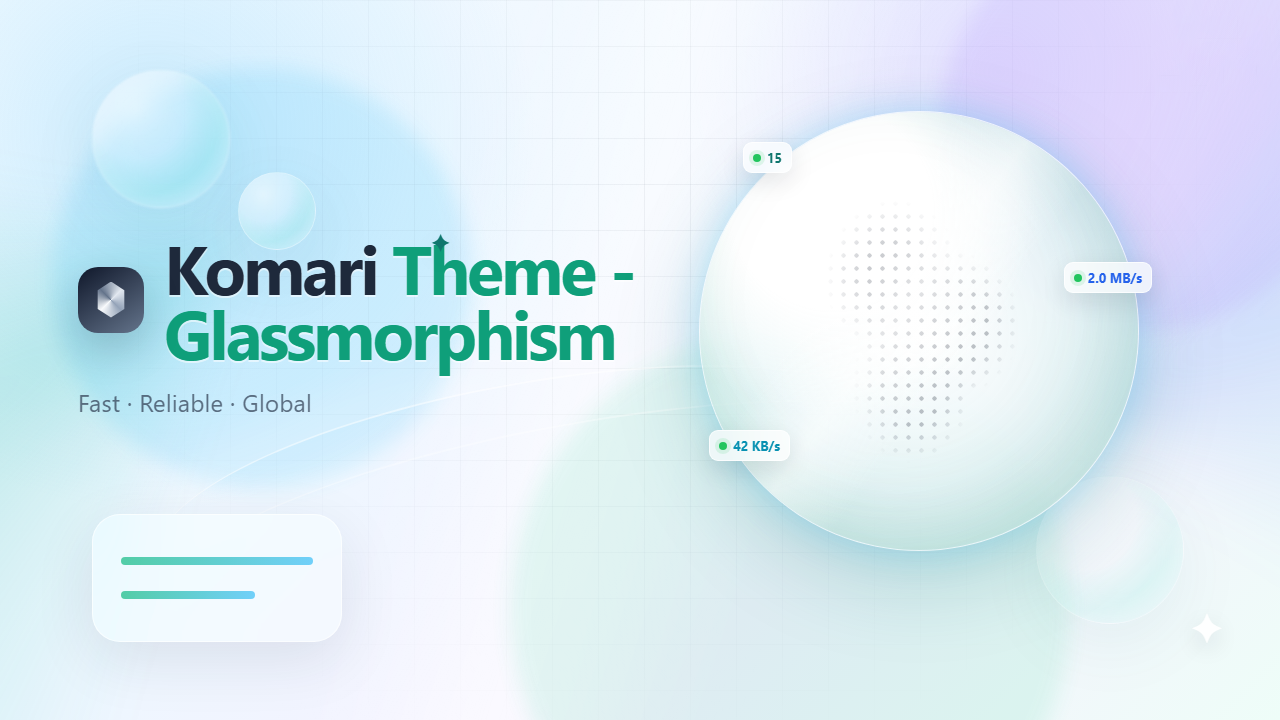
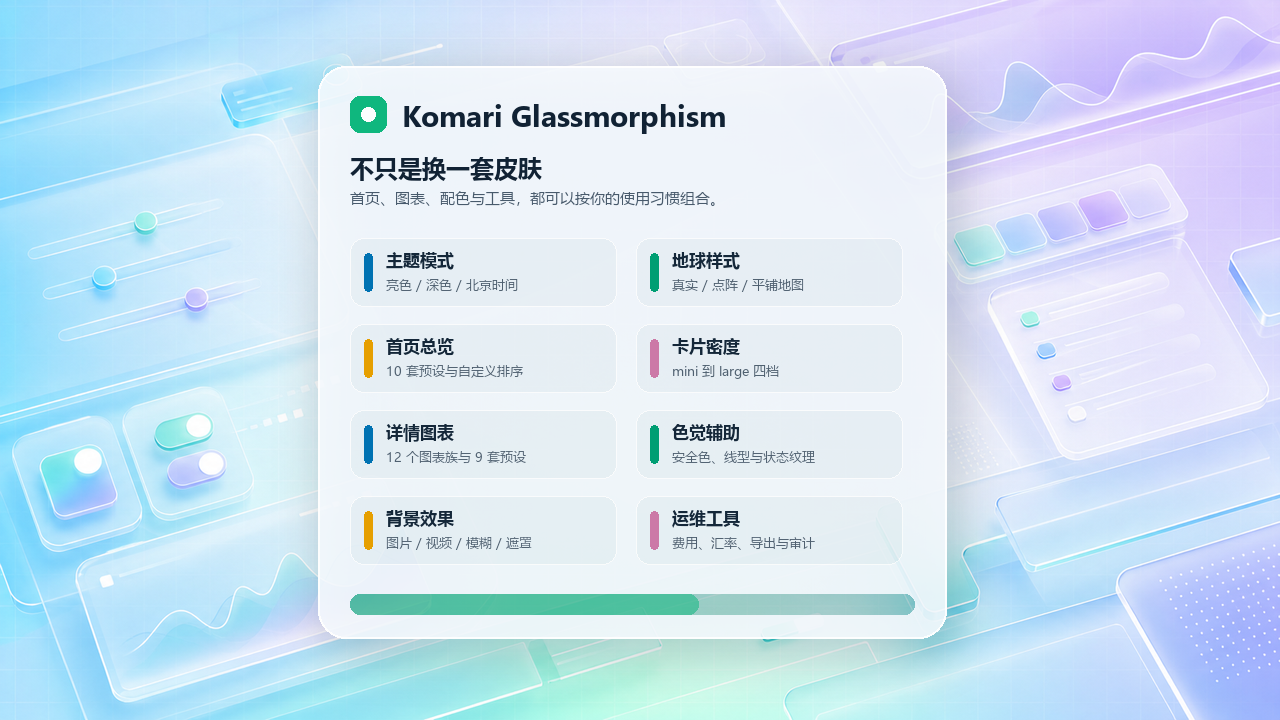
fix: release v3.1.7 stability and billing updates

diff --git a/src/components/NodeList.vue b/src/components/NodeList.vue
@@ -542,36 +542,28 @@ function buildNodeMetadataItems(node: NodeData): NodeMetadataItem[] {
                 </div>
 
                 <!-- 流量 -->
-                <div v-else-if="col.key === 'traffic'" class="group min-w-0">
-                  <DataTooltip placement="top" class="flex items-center gap-2" content-class="mb-1.5">
-                    <div class="space-y-1 w-full">
-                      <div class="text-[11px] font-medium text-foreground/75 truncate">
-                        <span class="inline group-hover:hidden">
-                          {{ getTrafficUsedPercentage(node).toFixed(1) }}%
-                        </span>
-                        <span class="hidden group-hover:inline">
-                          {{ formatBytes(getTrafficUsed(node)) }} /
-                          <template v-if="hasTrafficLimit(node)">{{ formatBytes(node.traffic_limit) }}</template>
-                          <template v-else>∞</template>
-                        </span>
-                      </div>
-                      <TrafficProgress
-                        :upload="node.net_total_up ?? 0" :download="node.net_total_down ?? 0"
-                        :traffic-limit="node.traffic_limit" :traffic-limit-type="(node.traffic_limit_type || 'sum')"
-                        height="4px"
-                      />
+                <div
+                  v-else-if="col.key === 'traffic'"
+                  class="group min-w-0"
+                  :title="`↑ ${formatBytes(node.net_total_up ?? 0)}\n↓ ${formatBytes(node.net_total_down ?? 0)}`"
+                >
+                  <div class="space-y-1 w-full">
+                    <div class="text-[11px] font-medium text-foreground/75 truncate">
+                      <span class="inline group-hover:hidden">
+                        {{ getTrafficUsedPercentage(node).toFixed(1) }}%
+                      </span>
+                      <span class="hidden group-hover:inline">
+                        {{ formatBytes(getTrafficUsed(node)) }} /
+                        <template v-if="hasTrafficLimit(node)">{{ formatBytes(node.traffic_limit) }}</template>
+                        <template v-else>∞</template>
+                      </span>
                     </div>
-                    <template #content>
-                      <span class="flex flex-row gap-0.5 items-center whitespace-nowrap">
-                        <Icon icon="tabler:chevron-up" width="12" height="12" />
-                        {{ formatBytes(node.net_total_up ?? 0) }}
-                      </span>
-                      <span class="flex flex-row gap-0.5 items-center whitespace-nowrap">
-                        <Icon icon="tabler:chevron-down" width="12" height="12" />
-                        {{ formatBytes(node.net_total_down ?? 0) }}
-                      </span>
-                    </template>
-                  </DataTooltip>
+                    <TrafficProgress
+                      :upload="node.net_total_up ?? 0" :download="node.net_total_down ?? 0"
+                      :traffic-limit="node.traffic_limit" :traffic-limit-type="(node.traffic_limit_type || 'sum')"
+                      height="4px"
+                    />
+                  </div>
                 </div>
 
                 <!-- 速率 -->

diff --git a/src/components/NodeCard.vue b/src/components/NodeCard.vue
@@ -59,6 +59,14 @@ const offlineTime = computed(() => formatDateTime(props.node.time))
 const cpuStatus = computed(() => getStatus(props.node.cpu ?? 0))
 const memPercentage = computed(() => getMemoryPercentage(props.node))
 const memStatus = computed(() => getStatus(memPercentage.value))
+const swapTooltip = computed(() => {
+  const used = Math.max(0, props.node.swap ?? 0)
+  const total = Math.max(0, props.node.swap_total ?? 0)
+  if (total <= 0)
+    return 'Swap 未配置'
+  const percentage = Math.min(100, used / total * 100)
+  return `Swap ${formatBytes(used)} / ${formatBytes(total)} (${percentage.toFixed(1)}%)`
+})
 const diskPercentage = computed(() => getDiskPercentage(props.node))
 const diskStatus = computed(() => getStatus(diskPercentage.value))
 
@@ -244,13 +252,13 @@ function hasRegion(region: string | null | undefined): boolean {
               <ProgressThin :percentage="props.node.cpu ?? 0" :status="cpuStatus" :height="4" />
             </div>
 
-            <div class="flex flex-col gap-1">
+            <DataTooltip placement="top" :content="swapTooltip" class="flex flex-col gap-1" content-class="whitespace-nowrap">
               <div class="flex justify-between text-xs">
                 <span class="text-muted-foreground">M</span>
                 <span class="tabular-nums font-medium">{{ memPercentage.toFixed(1) }}%</span>
               </div>
               <ProgressThin :percentage="memPercentage" :status="memStatus" :height="4" />
-            </div>
+            </DataTooltip>
 
             <div class="col-span-2 text-[11px] text-muted-foreground truncate">
               {{ formatBytes(props.node.ram ?? 0) }} / {{ formatBytes(props.node.mem_total ?? 0) }}
@@ -291,7 +299,7 @@ function hasRegion(region: string | null | undefined): boolean {
           </div>
 
           <!-- 内存 -->
-          <div class="flex flex-col gap-1">
+          <DataTooltip placement="top" :content="swapTooltip" class="flex flex-col gap-1" content-class="whitespace-nowrap">
             <div class="flex justify-between text-xs">
               <span class="text-muted-foreground">内存</span>
               <span class="tabular-nums font-medium">{{ memPercentage.toFixed(1) }}%</span>
@@ -300,7 +308,7 @@ function hasRegion(region: string | null | undefined): boolean {
             <div class="text-[11px] text-muted-foreground truncate">
               {{ formatBytes(props.node.ram ?? 0) }} / {{ formatBytes(props.node.mem_total ?? 0) }}
             </div>
-          </div>
+          </DataTooltip>
 
           <!-- 硬盘 -->
           <div class="flex flex-col gap-1">

diff --git a/src/stores/nodes.ts b/src/stores/nodes.ts
@@ -40,6 +40,7 @@ export interface NodeData {
   startup_fee?: number
   first_agent_reported_at?: string
   first_agent_reported_at_estimated?: boolean
+  billing_startup_fee_applied?: boolean
   billing_traffic_bytes?: number
   group: string
   groups: string[]
@@ -200,6 +201,7 @@ const useNodesStore = defineStore('nodes', () => {
       startup_fee: client.startup_fee,
       first_agent_reported_at: client.first_agent_reported_at,
       first_agent_reported_at_estimated: client.first_agent_reported_at_estimated,
+      billing_startup_fee_applied: client.billing_startup_fee_applied,
       billing_traffic_bytes: client.billing_traffic_bytes,
       group: client.group,
       groups: parseNodeGroups(client.group),
@@ -347,6 +349,20 @@ const useNodesStore = defineStore('nodes', () => {
       node.currency = client.currency
     if (node.expired_at !== client.expired_at)
       node.expired_at = client.expired_at
+    if (node.traffic_rate !== client.traffic_rate)
+      node.traffic_rate = client.traffic_rate
+    if (node.time_rate !== client.time_rate)
+      node.time_rate = client.time_rate
+    if (node.startup_fee !== client.startup_fee)
+      node.startup_fee = client.startup_fee
+    if (node.first_agent_reported_at !== client.first_agent_reported_at)
+      node.first_agent_reported_at = client.first_agent_reported_at
+    if (node.first_agent_reported_at_estimated !== client.first_agent_reported_at_estimated)
+      node.first_agent_reported_at_estimated = client.first_agent_reported_at_estimated
+    if (node.billing_startup_fee_applied !== client.billing_startup_fee_applied)
+      node.billing_startup_fee_applied = client.billing_startup_fee_applied
+    if (node.billing_traffic_bytes !== client.billing_traffic_bytes)
+      node.billing_traffic_bytes = client.billing_traffic_bytes
     if (node.group !== client.group) {
       node.group = client.group
       const nextGroups = parseNodeGroups(client.group)

diff --git a/src/views/HomeView.vue b/src/views/HomeView.vue
@@ -579,15 +579,14 @@ const nodeCardGridClass = computed(() => {
         </Tabs>
       </div>
     </div>
+    <PingMonitorDialog
+      v-if="pingDialogNode"
+      :open="Boolean(pingDialogNode)"
+      :uuid="pingDialogNode.uuid"
+      :node-name="pingDialogNode.name"
+      @update:open="!$event && (pingDialogNode = null)"
+    />
   </div>
-
-  <PingMonitorDialog
-    v-if="pingDialogNode"
-    :open="Boolean(pingDialogNode)"
-    :uuid="pingDialogNode.uuid"
-    :node-name="pingDialogNode.name"
-    @update:open="!$event && (pingDialogNode = null)"
-  />
 </template>
 
 <style scoped>

diff --git a/src/utils/financeHelper.ts b/src/utils/financeHelper.ts
@@ -158,7 +158,9 @@ export function calculateBillingEstimate(node: NodeData, now = new Date()): Bill
   const trafficTiB = trafficBytes / 1024 ** 4
   const timeRate = Math.max(0, Number(node.time_rate) || 0)
   const trafficRate = Math.max(0, Number(node.traffic_rate) || 0)
-  const startupCost = hasStarted ? Math.max(0, Number(node.startup_fee) || 0) : 0
+  const startupCost = hasStarted && node.billing_startup_fee_applied === true
+    ? Math.max(0, Number(node.startup_fee) || 0)
+    : 0
   const timeCost = runtimeHours * timeRate
   const trafficCost = trafficTiB * trafficRate
 

diff --git a/src/stores/app.ts b/src/stores/app.ts
@@ -173,7 +173,6 @@ const ALL_GENERAL_CARD_KEYS = [
   'regionDistribution',
   'systemDistribution',
   'virtualizationDistribution',
-  'monthlyCost',
   'yearlyCost',
 ] as const satisfies readonly GeneralCardKey[]
 
@@ -349,14 +348,7 @@ const GENERAL_CARD_PRESETS: Record<GeneralCardPreset, GeneralCardKey[]> = {
     'cpuCores',
     'gpuNodes',
   ],
-  full: [
-    'onlineNodes',
-    'remainingValue',
-    'monthlyCost',
-    'totalTraffic',
-    'trafficPeak',
-    'highLoadNodes',
-  ],
+  full: [...ALL_GENERAL_CARD_KEYS],
   custom: DEFAULT_GENERAL_CARD_ORDER,
 }
 

diff --git a/src/utils/rpc.ts b/src/utils/rpc.ts
@@ -104,6 +104,7 @@ export interface Client {
   startup_fee?: number
   first_agent_reported_at?: string
   first_agent_reported_at_estimated?: boolean
+  billing_startup_fee_applied?: boolean
   billing_traffic_bytes?: number
   group: string
   tags: string

diff --git a/AICACHE.md b/AICACHE.md
@@ -12,15 +12,25 @@
 
 ## 当前任务
 
-- 状态：done
-- 目标：发布 v3.1.6，完成默认主题后台适配、访客安全审计、首页延迟/丢包与价值明细交互、原创默认背景，并将实时费用估算分别提交 Komari 与 komari-web 上游。
-- 里程碑：M3 访客审计；M4 交互与背景；M5 默认主题整合和实时费用估算；M6 可重复同步、验证与发布。
-- 范围：完整官方 `/admin`、`/terminal`、`/manage/*` 静态子应用；访客 IP/UA/浏览器指纹/WebRTC 摘要与 CSV/JSON 导出；Ping 弹窗；汇率/价值明细；原创默认背景；Komari/komari-web 计费 PR。
-- 兼容约束：旧版 Komari 不返回 `traffic_rate` 时，嵌入管理端隐藏且不提交新增计费字段；空费率按 0；开机费只在 Agent 首次成功上报后计入一次。
-- 上游：Komari PR #604；komari-web PR #82。主题发布版本应为 3.1.6（当前远端已发布 3.1.5）。
-- 不做：不可篡改账单流水、付款状态和历史结算账本；不提交 `.claude/` 或 `output/` 生成过程目录。
+- 状态：in-progress
+- 目标：生成 Linux amd64 本地集成测试包，合并验证 Komari PR #604、已合并访客审计 PR #602、komari-web PR #82 与 Glassmorphism v3.1.6 内置默认主题。
+- 里程碑：M6 集成构建、测试交付与验证，不扩大现有上游 PR 范围。
+- 范围：CGO Linux amd64 核心二进制、可导入主题 zip、独立管理端构建、测试说明与 SHA-256；部署后在用户保持登录的浏览器中继续联调。
+- 安全约束：`visitor_audit_enabled` 保持上游默认关闭，由管理员在审计面板明确开启；测试包不预置数据库、账号、密钥或访客数据。
+- 来源：Komari PR #604 `f08f47d`（含访客审计 PR #602）；komari-web PR #82 `0fee1f1`；主题基线 `261fcc1`，目标发布 v3.1.7。
+- 不做：不把 Glassmorphism 默认主题替换混入计费 PR #604；不发布测试构建为正式 Release；不构建 Windows 包。
 
 ## 执行日志
+
+### 2026-07-15 Linux integration test bundle
+
+- 已确认 Komari PR #604 没有修改上游默认主题，但其提交历史已包含 PR #602 的访客审计 RPC、默认关闭开关、限流和日志过滤修复。
+- 已确认 Glassmorphism `dist/` 包含由 komari-web `b8fcc4580fe2cd5b715b76c97f4ff4b9ba066581` 构建的完整 `/admin-app/`，入口桥接覆盖 `/admin`、`/terminal`、`/manage/*`。
+- 用户指定只需 Linux 测试包；目标收窄为 `linux/amd64`。
+- PR #604 复核修复：账单累计写入失败现在只记录日志，不再阻断已保存的 Agent 上报和运行时在线状态；新增回归测试，提交 `b242ee8` 已推送 PR 分支。流量费率明确为每 TiB（`1024^4 bytes`）。
+- komari-web #82 本地补强：管理端账单弹窗新增流量、运行时间、首次开机费和总估算，30 秒刷新；费率前后端统一限制为 `0..1e12`；明确锚点可修改但首次上报后不可清空。`npm run lint` 为 0 error / 27 个既有 warning，`npm run build` 通过。
+- v3.1.6 空白页已稳定复现：`HomeView` 新增 `PingMonitorDialog` 时把弹窗放在主根节点外，视图变成 Fragment；Vue 报 `Component inside <Transition> renders non-element root node`，`out-in` 离场后主区域为空。修复为把弹窗移入 `.home-view` 单一根容器；浏览器首页 -> 详情 -> 返回首页恢复正常且无新 warning/error。
+- 永久约束已写入 `AIAGENTREADME.md` 和 `src/AGENTS.md`：路由视图必须单元素根，新增全局弹窗后必须验证动画开启/关闭两种路由往返。
 
 ### 2026-07-15 v3.1.6 release preparation
 
@@ -368,3 +378,23 @@
 
 1.
 ```
+
+## 2026-07-15 Preview redesign (M4)
+
+- Redesigning `docs/preview.png` because the current marketing-hero composition is too close to Komari Emerald (left title, large globe, three-word slogan).
+- New direction: a product-first monitoring dashboard scene with frosted node cards and compact telemetry, no globe, no Emerald logo, no marketing slogan.
+- Generated `output/imagegen/komari-glass-dashboard-preview-v2.png` with `gpt-image-2` (high quality) and selected its 1280x720 web derivative after visual inspection. The new composition is a full monitoring workspace with a top status strip, network overview, and six node cards.
+- Runtime screenshot/mock work was deferred. `docs/preview.png` was replaced with a pure conceptual settings cover: no version badge and no actual page preview; it emphasizes eight configurable areas over the generated cyan/mint/lilac glass background.
+- Shortened the managed configuration menu label from `Glassmorphism 设置` to `主题设置`.
+- Release audit found `applyClient()` did not refresh the new billing fields after initial load. v3.1.7 now updates rates, anchor state, cumulative traffic, and startup-fee-applied state during the existing client metadata polling cycle.
+- Fixed the misleading `完整` general-card preset: it was hard-coded to six cards even though the responsive renderer supports additional rows. It now expands to every unique `ALL_GENERAL_CARD_KEYS` entry; other presets remain curated six-card layouts.
+
+## 2026-07-15 v3.1.7 release candidate
+
+- `bun run lint`: passed.
+- `bun run build`: passed, including `vue-tsc`; only the existing Rollup annotation and large globe chunk warnings remain.
+- Local archive contains `komari-theme.json`, `preview.png`, and `dist/index.html`; embedded manifest version is `3.1.7` and configuration name is `主题设置`.
+- Home -> detail -> home was browser-verified earlier with no refresh and no Fragment/Transition warning after moving `PingMonitorDialog` inside the single `HomeView` root.
+- Komari PR #604 head `f08f47d` is `CLEAN` / `MERGEABLE`; all frontend and cross-platform binary checks succeeded.
+- komari-web PR #82 head `0fee1f1` is `CLEAN` / `MERGEABLE`; that exact commit is embedded under `public/admin-app/`.
+- Local-only `.claude/`, `output/`, and `tmp/` must remain uncommitted.

diff --git a/README.md b/README.md
@@ -38,7 +38,7 @@
 
 | 项目     | 说明                                                      |
 | :------- | :-------------------------------------------------------- |
-| 当前版本 | **v3.1.6**                                                |
+| 当前版本 | **v3.1.7**                                                |
 | 主题定位 | Komari Monitor 可导入 zip 主题，不是普通 Web App 部署包   |
 | 视觉风格 | 毛玻璃卡片、动态背景、浅色 / 深色 / 北京时间自动日夜模式  |
 | 数据能力 | Metric Store 优先，旧接口自动 fallback，兼容 Komari 1.2.x |
@@ -46,6 +46,19 @@
 | 发布产物 | `komari-theme-Glassmorphism-build-<short-sha>.zip`        |
 
 > 好看只是外壳。v3 真正的重点，是把 Metric、Ping、流量、费用、健康分析和运维工具整合成日常真的会打开来看的监控面板。
+
+---
+
+## 🩹 v3.1.7 路由、费用与列表体验修复
+
+- 修复首页点击节点进入详情时偶发只剩背景、必须刷新才能恢复的问题；路由视图重新保持单一元素根节点
+- 修复列表模式流量栏悬浮时被行容器裁剪、出现粗细不一致残留条的问题
+- 首页节点卡内存区域悬浮可查看 Swap 已用、总量与占用率
+- 修复“完整”头部卡片方案仍只显示 6 张的问题；完整模式现在展示全部可用总览指标
+- 实时费用的首次开机费只在后端确认真实 Agent 首次上报后计入，旧节点推定锚点不会提前收费
+- 费率、计费锚点、累计流量与开机费状态可随节点元数据轮询实时刷新，无需整页刷新
+- 内嵌管理端更新到 komari-web PR #82 最新提交，显示流量、运行时间、首次开机费与总估算明细
+- 主题管理菜单缩短为“主题设置”，并重做可配置能力概念封面
 
 ---
 
@@ -379,6 +392,20 @@ dist/
 ## 📝 更新日志
 
 <details open>
+<summary><strong>v3.1.7 · 路由、费用与列表体验修复</strong></summary>
+
+- 修复首页进入节点详情时路由过渡留下空白页的问题
+- 修复列表流量悬浮提示被裁剪成异常横条的问题
+- 节点卡内存悬浮新增 Swap 使用明细
+- “完整”首页总览方案改为展示全部可用卡片，不再等同于固定 6 张精选卡
+- 首次开机费改为以后端真实上报状态为准，兼容旧节点推定锚点
+- 新增计费字段的节点元数据就地刷新，管理员修改后无需整页重载
+- 内嵌管理端同步到 komari-web `0fee1f1`，补齐实时费用明细与开机费语义
+- 主题菜单改名为“主题设置”，更新主题可配置能力概念封面
+
+</details>
+
+<details>
 <summary><strong>v3.1.6 · 默认主题后台与费用明细</strong></summary>
 
 - 内置完整官方管理端与终端路由，增加 Glassmorphism 配色和可重复同步流程

diff --git a/src/AGENTS.md b/src/AGENTS.md
@@ -91,6 +91,8 @@ Cache/request keys must include every dimension that changes the result, especia
 ## Views and async components
 
 - Keep `defineOptions({ name: 'HomeView' })` in `HomeView.vue`, because `App.vue` KeepAlive includes `HomeView` by name.
+- Keep every route view as a single-element root. `App.vue` wraps routed components with `Transition` + `KeepAlive`; a Fragment root (including a dialog placed beside the main root) can stall `out-in` leave handling and leave only the background visible.
+- After changing a route view root, test home -> detail -> home in a browser with page animations both enabled and disabled, and check that Vue does not log `Component inside <Transition> renders non-element root node`.
 - Heavy node/chart UI should stay lazy-loaded with `defineAsyncComponent` from views.
 - Views coordinate store/composable state; they should not own reusable business logic.
 

diff --git a/AIAGENTREADME.md b/AIAGENTREADME.md
@@ -157,6 +157,8 @@ Vue Component
   - `/` -> `HomeView`
   - `/instance/:id` -> `InstanceDetail`
 - 不要加全局 router guard。公开首页/详情页必须保持公开，敏感数据路径自己做权限 gate。
+- `RouterView` 的路由组件被 `Transition` 和 `KeepAlive` 包裹，因此 `HomeView`、`InstanceDetail` 必须保持单一 HTML 元素根节点。全局弹窗、抽屉和 Teleport 入口也要放在该根容器内部；Fragment 根会让 Vue 无法执行离场动画，`out-in` 模式可能只剩背景且必须刷新才能恢复。
+- 改路由视图根结构后，必须在浏览器验证首页 -> 详情 -> 返回首页，确认无需刷新、控制台没有 `Component inside <Transition> renders non-element root node` 警告；同时覆盖开启和关闭“减弱过渡动画”的模式。
 
 ## 8. 状态管理
 
